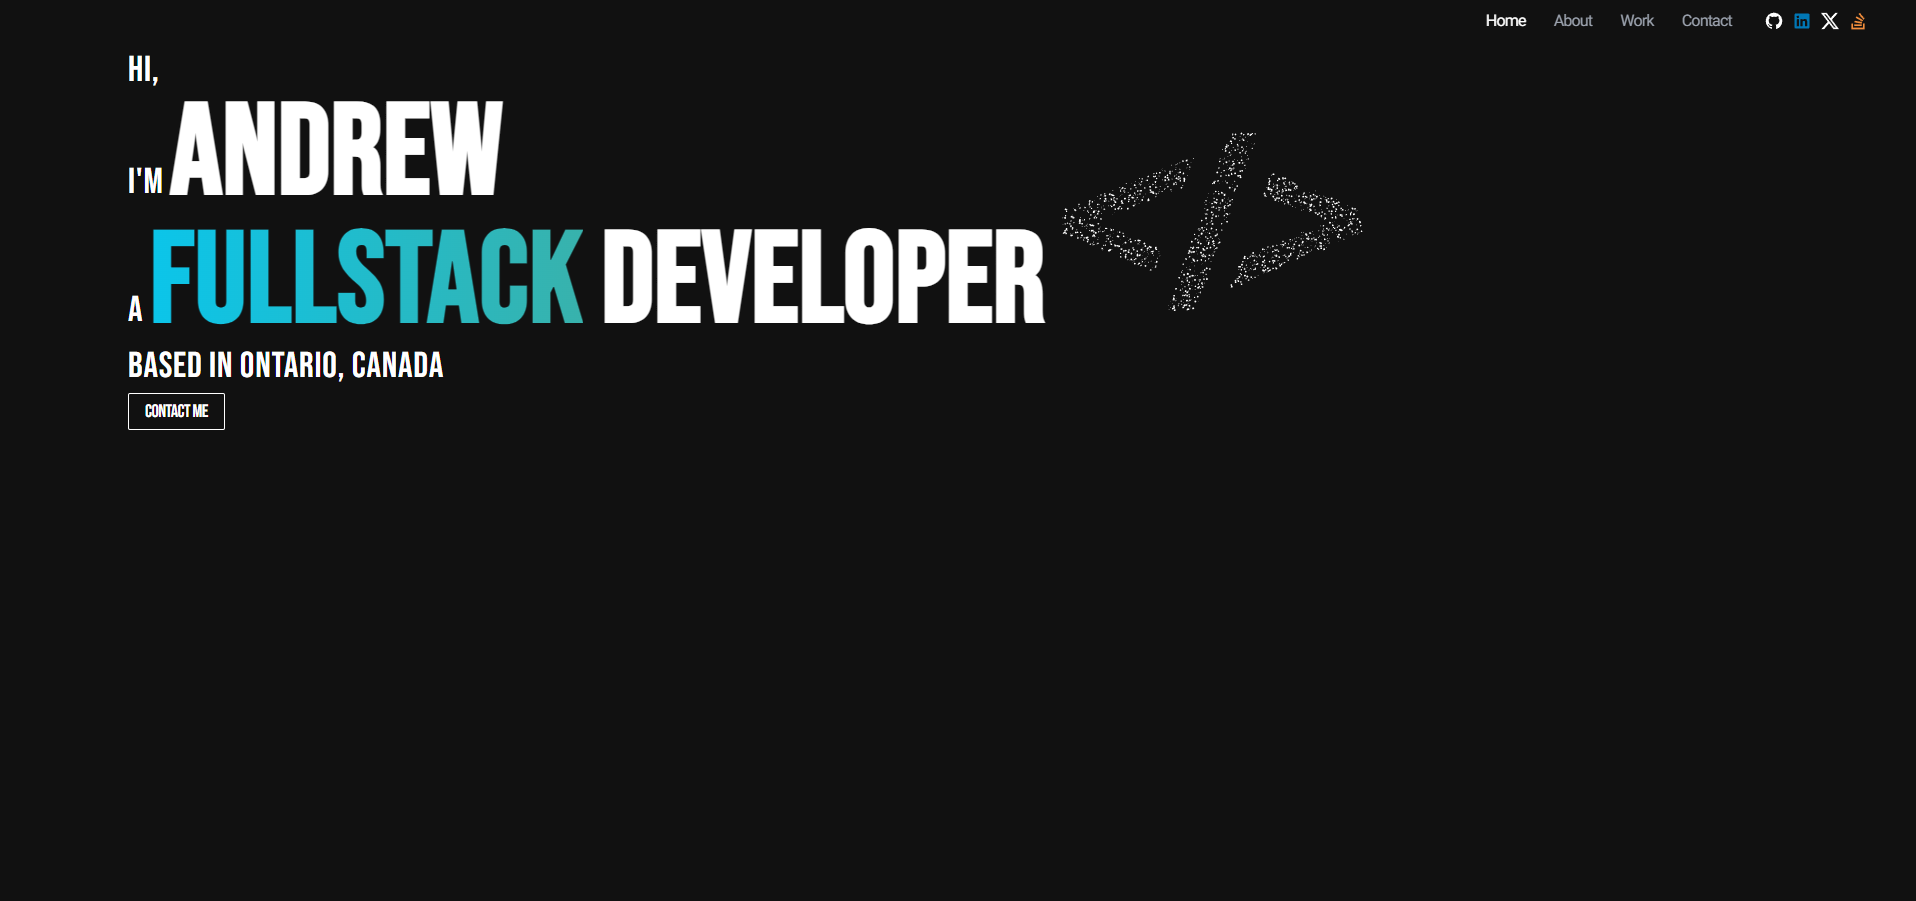
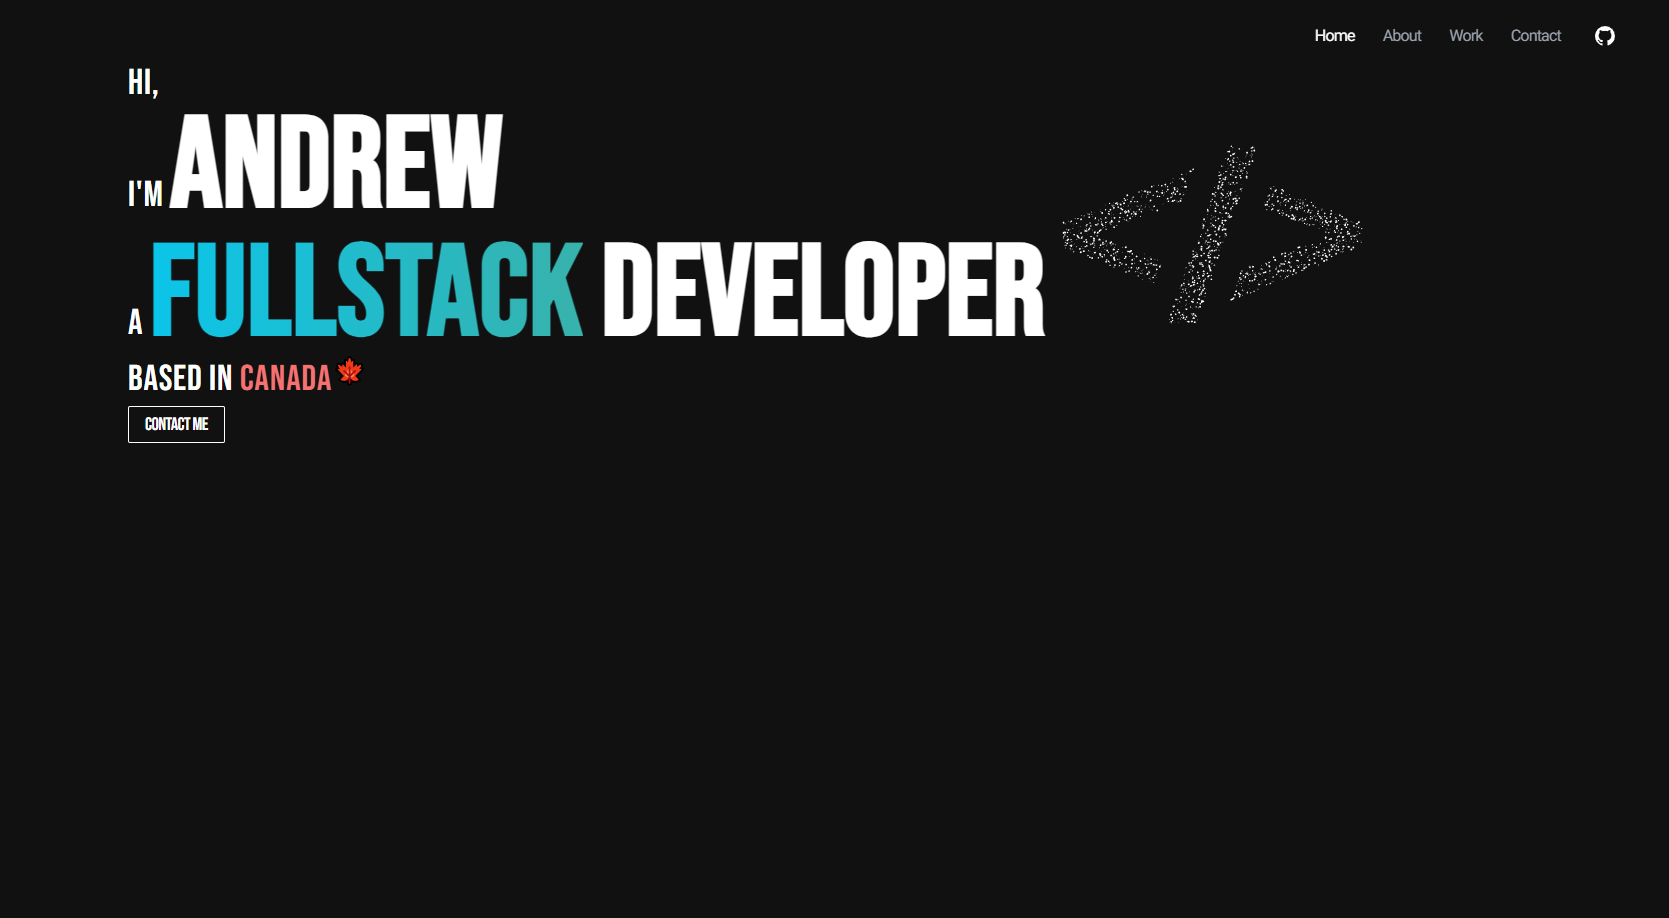
img and description update

diff --git a/src/app/About/page.tsx b/src/app/About/page.tsx
@@ -3,6 +3,7 @@
 import Skills from "./components/Skills";
 import Image from "next/image";
 import { motion } from "framer-motion";
+import Link from "next/link";
 
 export default function page() {
   return (
@@ -23,13 +24,25 @@ export default function page() {
           }}
           className="text-text_secondary mt-5 self-start"
         >
-          Hi! Im Andrew, I'm an enthusiastic Web Developer who loves to solve
-          problems using all kinds of web technologies and is obsessed with
-          learning new ones! Some of my hobbies include weight lifting, watching
-          movies, playing guitar and of course coding. I'm always learning and
-          adapting to the constant changing environment that is the web. Feel
-          free to contact me whether its about a project, job opportunity or if
-          you have any questions.
+          Hi! My name's Andrew, I'm a Web Developer who likes to solve problems
+          using all kinds of web technologies and enjoy's learning new ones. Some
+          of my favourite past times include weight lifting, watching movies,
+          reading, playing{" "}
+          <span className="text-theme_orange underline cursor-pointer">
+            my guitar
+          </span>{" "}
+          and reading about code and writing it. I'm always learning and trying
+          to improve the maintainability, readability and overall quality of my
+          code, on top of adapting to the wild environment that is the web. Feel
+          free to{" "}
+          <Link
+            className="text-theme_pink underline cursor-pointer"
+            href="/Contact"
+          >
+            contact me
+          </Link>{" "}
+          whether it's about a project, job opportunity or if you have any
+          questions at all.
         </motion.p>
 
         <motion.div

diff --git a/src/app/Projects/utils/projectData.ts b/src/app/Projects/utils/projectData.ts
@@ -38,7 +38,7 @@ export const projectData = [
     icons: gymTrackerIcons,
 
     description:
-      "Fitness application.",
+      "I dont like most weight lifting apps because they are a bit to verbose in their features for my needs, so I made Strength log. It's a simple fitness app that works using templates (a collection of exercises). You can save your templates and see how you progress over time.",
   },
 
   // {
@@ -55,14 +55,18 @@ export const projectData = [
   //     "A developer 'themed' chatting application where users can get help from other developers when they get stuck. Users can create an account, edit their settings and chat with others through direct messages or language based rooms.",
   // },
 
-  // {
-  //   title: "Portfolio",
-  //   images: ["/portfolio-img-0.png"],
-  //   link: "https://andrewhowran.dev",
-  //   repo: "https://github.com/AgentA12/Portfolio",
-  //   icons: portfolioIcons,
-  //   description: "This portfolio of mine",
-  // },
+  {
+    date: 2024,
+    title: "Portfolio",
+    images: [
+      { src: "/portfolio-img-0.png", width: 800, height: 100 },
+      { src: "/portfolio-img-1.png", width: 600, height: 100 },
+      { src: "/portfolio-img-2.png", width: 800, height: 100 }],
+    link: "#",
+    repo: "https://github.com/AgentA12/Portfolio",
+    icons: portfolioIcons,
+    description: "This portfolio of mine, I plan to add a blog in time.",
+  },
 
   // {
   //   title: "Find Your Estate",

diff --git a/src/app/Contact/components/GlobeComponent.jsx b/src/app/Contact/components/GlobeComponent.jsx
@@ -4,11 +4,6 @@ import { useEffect, useRef } from "react";
 let Globe = () => null;
 if (typeof window !== "undefined") Globe = require("react-globe.gl").default;
 
-const markerSvg = `<svg viewBox="-4 0 36 36">
-<path fill="currentColor" d="M14,0 C21.732,0 28,5.641 28,12.6 C28,23.963 14,36 14,36 C14,36 0,24.064 0,12.6 C0,5.641 6.268,0 14,0 Z"></path>
-<circle fill="black" cx="14" cy="14" r="7"></circle>
-</svg>`;
-
 export default function GlobeComponent() {
   const globeEl = useRef();
 
@@ -20,7 +15,6 @@ export default function GlobeComponent() {
     }
   }, []);
 
-  const gData = { lat: 45.424721, lng: -75.695, size: 30, color: ["#56D82D"] };
   const hours = new Date().getHours();
   const isDayTime = hours > 6 && hours < 20;
 
@@ -40,16 +34,6 @@ export default function GlobeComponent() {
       backgroundColor={"rgba(0,0,0,0)"}
       animateIn={true}
       waitForGlobeReady={true}
-      htmlElementsData={[gData]}
-      htmlElement={(d) => {
-        const el = document.createElement("div");
-        el.innerHTML = markerSvg;
-        el.style.color = d.color;
-        el.style.width = `${d.size}px`;
-
-        el.style.cursor = "pointer";
-        return el;
-      }}
     />
   );
 }

diff --git a/src/app/Contact/components/ContactForm.tsx b/src/app/Contact/components/ContactForm.tsx
@@ -161,12 +161,12 @@ export default function ContactForm() {
         }   align-center flex `}
       >
         {successMessage && (
-          <div className="mr-2  inline font-black text-green-500 transition-all duration-100 sm:text-lg sm:text-xl">
+          <div className="mr-2  inline font-black text-green-500 transition-all duration-100 sm:text-lg">
             {capitalizeFirstLetter(successMessage)}
           </div>
         )}
         {errorMessage && (
-          <div className="mr-2  inline font-black text-red-500 transition-all duration-100 sm:text-xl">
+          <div className="mr-2  inline font-black text-red-400 transition-all duration-100 sm:text-xl">
             {capitalizeFirstLetter(errorMessage)}
           </div>
         )}

diff --git a/src/app/Contact/page.tsx b/src/app/Contact/page.tsx
@@ -16,7 +16,7 @@ export default function page() {
           initial={{ opacity: 0, x: -50 }}
           animate={{ opacity: 1, x: 0 }}
           transition={{ duration: 0.2 }}
-          className={`text-lg text-center 2xl:text-left text-text_secondary`}
+          className={`text-md text-center 2xl:text-left text-secondary_text`}
         >
           If your interested in chatting you can reach me here
         </motion.p>

diff --git a/src/app/page.tsx b/src/app/page.tsx
@@ -43,7 +43,7 @@ export default function page() {
         based in{" "}
         <p className="text-red-400 inline relative">
           Canada
-          <span className="font-light text-[26px] absolute -top-1 -right-9">
+          <span className="font-light text-[22px] absolute -top-1 -right-7">
             &#127809;
           </span>
         </p>

diff --git a/src/app/About/components/Skills.tsx b/src/app/About/components/Skills.tsx
@@ -6,7 +6,7 @@ export default function Skills() {
   return (
     <div className="lg:w-9/12">
       <p className="my-5 font-display text-5xl text-theme_pink">
-        Skills and Tools
+      Some Skills and Tools
       </p>
 
       <div className="mb-10 flex flex-wrap justify-center gap-10">
